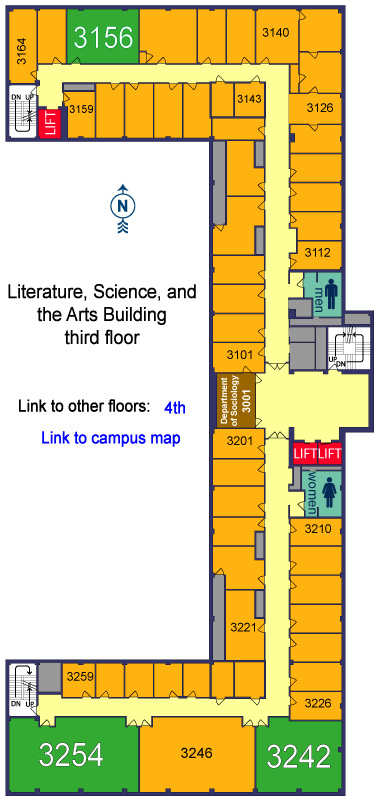
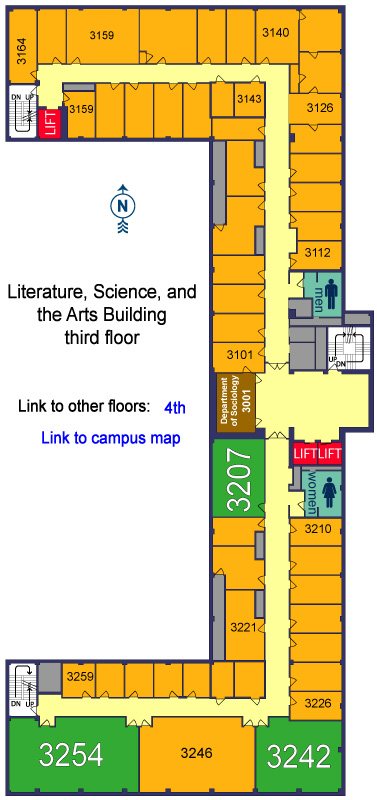
Update maps for lsa3 and ahg

Changed region(s): [[0.5544, 0.5312, 0.7294, 0.6562], [0.1751, 0.0, 0.3793, 0.0938]]

diff --git a/public/maps/ah.html b/public/maps/ah.html
@@ -1,18 +1,18 @@
-<!DOCTYPE html PUBLIC "-//W3C//DTD XHTML 1.0 Transitional//EN" "http://www.w3.org/TR/xhtml1/DTD/xhtml1-transitional.dtd">
-<html xmlns="http://www.w3.org/1999/xhtml">
+
+<!DOCTYPE html>
 <head>
 <meta http-equiv="Content-Type" content="text/html; charset=utf-8" />
 <title>Maps - AH Ground</title>
 </head>
 <body>
-<img src="ah.jpg" alt="image ground floor Angell" width="583" height="1000" border="0" usemap="#ahg" />
+<img src="ahg.jpg" alt="image ground floor Angell" width="583" height="1000" border="0" usemap="#ahg" />
 <map name="ahg" id="ahg">
   <area shape="rect" coords="320,152,373,169" href="ah3.html"  alt="Link to 3rd floor" title="Link to 3rd floor" />
-  <area shape="rect" coords="524,498,573,578" href="hhg.html" alt="link to Haven Hall" title="link to Haven Hall" />
+  <area shape="rect" coords="529,498,578,578" href="hhg.html" alt="link to Haven Hall" title="link to Haven Hall" />
   <area shape="rect" coords="340,278,386,306" href="ah4.html"  alt="Link to 4th floor" title="Link to 4th floor" />
   <area shape="rect" coords="392,278,433,304" href="ah5.html"  alt="Link to 5th floor" title="Link to 5th floor" />
   <area shape="rect" coords="283,278,334,305" href="ah2.html"  alt="Link to 2nd floor" title="Link to 2nd floor" />
-  <area shape="rect" coords="518,380,567,460" href="mhg.html" alt="link to Mason Hall" title="link to Mason Hall" />
+  <area shape="rect" coords="523,380,572,460" href="mhg.html" alt="link to Mason Hall" title="link to Mason Hall" />
   <area shape="rect" coords="186,145,271,193" href="mhg.html" alt="link to Mason Hall" title="link to Mason Hall" />
   <area shape="rect" coords="224,307,506,336" href="index.html"  alt="Link to campus map" title="Link to campus map" />
   <area shape="rect" coords="153,252,204,304" href="../classrooms/AHG232"  alt="Link to data room G232" title="Link to data room G232" />
@@ -26,8 +26,9 @@
   <area shape="rect" coords="156,773,188,845" href="../classrooms/AHG144"  alt="Link to data room G144" title="Link to data room G144" />
   <area shape="rect" coords="156,870,187,919" href="../classrooms/AHG128"  alt="Link to data room G128" title="Link to data room G128" />
   <area shape="rect" coords="72,801,130,895" href="../classrooms/AHG127"  alt="Link to data room G127" title="Link to data room G127" />
-  <area shape="rect" coords="273,763,328,833" href="../classrooms/AHG026" alt="Link to data room G026" title="Link to data room G026" />
   <area shape="rect" coords="72,898,132,989" href="../classrooms/AHG115"  alt="Link to data room G115" title="Link to data room G115" />
+  <area shape="rect" coords="217,762,272,832" href="../classrooms/AHG040" alt="Link to data room G040" title="Link to data room G040" />
+  <area shape="rect" coords="273,763,328,833" href="../classrooms/AHG026" alt="Link to data room G026" title="Link to data room G026" />
 </map>
 </body>
 </html>

diff --git a/public/maps/lsa3.html b/public/maps/lsa3.html
@@ -1,4 +1,4 @@
-<!DOCTYPE html PUBLIC "-//W3C//DTD XHTML 1.0 Transitional//EN" "http://www.w3.org/TR/xhtml1/DTD/xhtml1-transitional.dtd">
+<!DOCTYPE html>
 <html xmlns="http://www.w3.org/1999/xhtml">
 <head>
 <meta http-equiv="Content-Type" content="text/html; charset=utf-8" />
@@ -7,10 +7,11 @@
 <body>
 <img src="lsa3.jpg" alt="Image LSA - floor 3" width="377" height="800" border="0" usemap="#lsa3" />
 <map name="lsa3" id="lsa3">
-  <area shape="rect" coords="68,10,138,63" href="../classrooms/LSA3156"  alt="Link to data room 3156" title="Link to data room 3156" />
+  
   <area shape="rect" coords="157,398,190,417" href="lsa4.html" alt="go to the 4th floor" title="go to the 4th floor" />
-  <area shape="rect" coords="8,719,138,791" href="../classrooms/LSA3254"  alt="Link to data room 3254" title="Link to data room 3254" />
   <area shape="rect" coords="35,425,184,451" href="index.html"  alt="Link to campus map" title="Link to campus map" />
+<area shape="rect" coords="210,436,265,519" href="../classrooms/LSA3207"  alt="Link to data room 3207" title="Link to data room 3207" />
+  <area shape="rect" coords="8,719,138,791" href="../classrooms/LSA3254"  alt="Link to data room 3254" title="Link to data room 3254" />
   <area shape="rect" coords="258,718,342,793" href="../classrooms/LSA3242"  alt="Link to data room 3242" title="Link to data room 3242" />
 </map>
 </body>
